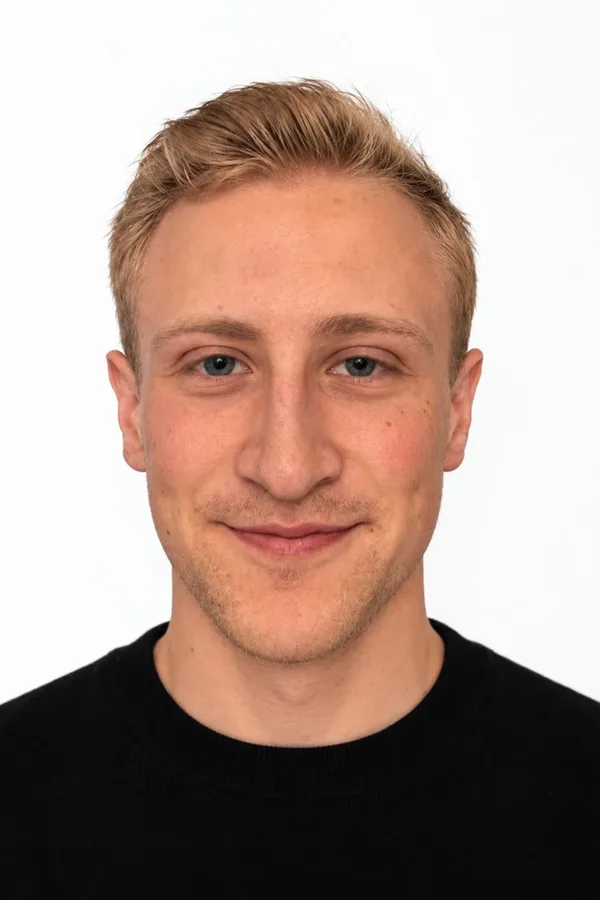
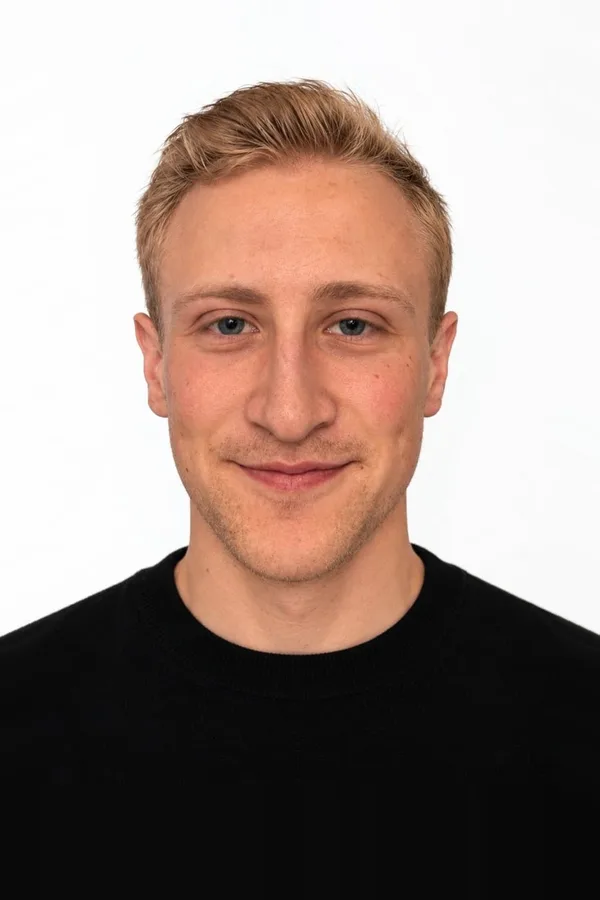
Team: Nils-Foto herausgezoomt, Stefano im Team-Format, Moritz-Text gekuerzt
- Nils: Kopf fuellte 65 % der Bildhoehe (andere 47 bis 59 %), jetzt auf 86 % skaliert, Scheitel gleiche Hoehe, Hintergrund und Schulterlinie ergaenzt; URLs mit ?v=2
- Stefano: Overlay-Karte durch Foto und Info-Kachel mit Rolle, Text und fuenf Hashtags ersetzt, nicht mehr benutztes CSS entfernt
- Moritz: Hochschule Fresenius und Masterstudium raus, Podcast bleibt, Schlusssatz neu

Changed region(s): [[0.0, 0.0933, 1.0, 0.84]]

diff --git a/index.html b/index.html
@@ -363,7 +363,7 @@
           </div>
           <div class="team-pair">
             <a class="team-tile team-tile--photo" href="https://www.linkedin.com/in/krueger-nils" target="_blank" rel="noopener" aria-label="Nils Krüger auf LinkedIn — öffnet in neuem Tab">
-              <picture><source type="image/webp" srcset="assets/img/team-nils-320.webp 320w, assets/img/team-nils-600.webp 600w, assets/img/team-nils-935.webp 935w" sizes="380px"><img src="assets/img/team-nils.jpg" alt="Porträt Nils Krüger" loading="lazy" decoding="async" width="600" height="900"></picture>
+              <picture><source type="image/webp" srcset="assets/img/team-nils-320.webp?v=2 320w, assets/img/team-nils-600.webp?v=2 600w, assets/img/team-nils-935.webp?v=2 935w" sizes="380px"><img src="assets/img/team-nils.jpg?v=2" alt="Porträt Nils Krüger" loading="lazy" decoding="async" width="600" height="900"></picture>
             </a>
             <div class="team-tile team-tile--info">
               <h3>Nils Krüger</h3>
@@ -382,20 +382,26 @@
             <div class="team-tile team-tile--info">
               <h3>Moritz Wagner</h3>
               <p class="team-tile__role">Partner für psychologisch fundierte Trainingsgestaltung</p>
-              <p>Ich konzipiere Trainings, die psychologisch fundiert sind und genau zur Zielgruppe passen. Dafür recherchiere ich Inhalte gründlich und übersetze Erkenntnisse aus der Arbeits- und Organisationspsychologie und dem Marketing in Formate, die im Alltag funktionieren. Meine Erfahrung stammt aus der studentischen Unternehmensberatung der Hochschule Fresenius und aus dem Appreciator Podcast zur Wirtschaftspsychologie, den ich vor über drei Jahren gegründet habe. Im Masterstudium der Wirtschaftspsychologie vertiefe ich die Theorie und bringe sie direkt in unsere Projekte ein.</p>
+              <p>Ich konzipiere Trainings, die psychologisch fundiert sind und genau zur Zielgruppe passen. Dafür recherchiere ich Inhalte gründlich und übersetze Erkenntnisse aus der Arbeits- und Organisationspsychologie und dem Marketing in Formate, die im Alltag funktionieren. Meine Erfahrung stammt auch aus dem Appreciator Podcast zur Wirtschaftspsychologie, den ich vor über drei Jahren gegründet habe. Bei Yorck verbinde ich Theorie und Praxis und bringe beides direkt in die Projekte ein.</p>
               <div class="team-hashtags">
                 <span>#WIRTSCHAFTSPSYCHOLOGIE</span><span>#TRAININGSGESTALTEN</span><span>#TEAMARBEITSTÄRKEN</span><span>#RESEARCHMITTIEFE</span><span>#WISSENTEILEN</span>
               </div>
               <a class="linkedin-link" href="https://www.linkedin.com/in/moritz-wagner-995a2b259/" target="_blank" rel="noopener" aria-label="Moritz Wagner auf LinkedIn — öffnet in neuem Tab" style="margin-top:6px"><svg viewBox="0 0 24 24"><path d="M20.5 2h-17A1.5 1.5 0 002 3.5v17A1.5 1.5 0 003.5 22h17a1.5 1.5 0 001.5-1.5v-17A1.5 1.5 0 0020.5 2zM8 19H5v-9h3zM6.5 8.25A1.75 1.75 0 118.3 6.5a1.78 1.78 0 01-1.8 1.75zM19 19h-3v-4.74c0-1.42-.6-2.26-1.76-2.26A1.9 1.9 0 0012.3 13.9a2.4 2.4 0 00-.12.9V19h-3s.05-8.14 0-9h3v1.3a3 3 0 012.71-1.5c2 0 3.11 1.3 3.11 4.1z"/></svg></a>
             </div>
           </div>
-          <div class="team-tile team-tile--card">
-            <a class="team-tile__photo-link" href="https://www.linkedin.com/in/labatestefano/" target="_blank" rel="noopener" aria-label="Stefano Labate auf LinkedIn — öffnet in neuem Tab"><picture><source type="image/webp" srcset="assets/img/team-stefano-320.webp 320w, assets/img/team-stefano-600.webp 600w" sizes="380px"><img src="assets/img/team-stefano.jpg" alt="Porträt Stefano Labate" loading="lazy" decoding="async" width="600" height="900"></picture></a>
-            <div class="team-tile__overlay">
-              <h3 class="team-tile__name">Stefano Labate</h3>
+          <div class="team-pair">
+            <a class="team-tile team-tile--photo" href="https://www.linkedin.com/in/labatestefano/" target="_blank" rel="noopener" aria-label="Stefano Labate auf LinkedIn — öffnet in neuem Tab">
+              <picture><source type="image/webp" srcset="assets/img/team-stefano-320.webp 320w, assets/img/team-stefano-600.webp 600w" sizes="380px"><img src="assets/img/team-stefano.jpg" alt="Porträt Stefano Labate" loading="lazy" decoding="async" width="600" height="900"></picture>
+            </a>
+            <div class="team-tile team-tile--info">
+              <h3>Stefano Labate</h3>
               <p class="team-tile__role">Experte &amp; Partner für Design und Produktmanagement</p>
+              <p>Ich mache Ideen sichtbar. Zwischen einer guten Idee und einem Produkt, das Menschen gerne nutzen, liegt oft eine Lücke. Genau dort arbeite ich am liebsten. Mit meinem Hintergrund in Art Direction, Markenstrategie, Go-to-Market und digitalem Produktmanagement verbinde ich Nutzerperspektive, Gestaltung und Geschäftsziele. Ich höre zu, frage nach und visualisiere, bis aus vielen Meinungen ein gemeinsames Bild wird, mit dem ein Team wirklich arbeiten kann.</p>
+              <div class="team-hashtags">
+                <span>#IDEENSICHTBARMACHEN</span><span>#DESIGNTRIFFTPRODUKT</span><span>#VONDERIDEEZURWIRKUNG</span><span>#KREATIVMITSTRUKTUR</span><span>#NUTZERVERSTEHEN</span>
+              </div>
+              <a class="linkedin-link" href="https://www.linkedin.com/in/labatestefano/" target="_blank" rel="noopener" aria-label="Stefano Labate auf LinkedIn — öffnet in neuem Tab" style="margin-top:6px"><svg viewBox="0 0 24 24"><path d="M20.5 2h-17A1.5 1.5 0 002 3.5v17A1.5 1.5 0 003.5 22h17a1.5 1.5 0 001.5-1.5v-17A1.5 1.5 0 0020.5 2zM8 19H5v-9h3zM6.5 8.25A1.75 1.75 0 118.3 6.5a1.78 1.78 0 01-1.8 1.75zM19 19h-3v-4.74c0-1.42-.6-2.26-1.76-2.26A1.9 1.9 0 0012.3 13.9a2.4 2.4 0 00-.12.9V19h-3s.05-8.14 0-9h3v1.3a3 3 0 012.71-1.5c2 0 3.11 1.3 3.11 4.1z"/></svg></a>
             </div>
-            <a class="linkedin-link" href="https://www.linkedin.com/in/labatestefano/" target="_blank" rel="noopener" aria-label="Stefano Labate auf LinkedIn — öffnet in neuem Tab"><svg viewBox="0 0 24 24"><path d="M20.5 2h-17A1.5 1.5 0 002 3.5v17A1.5 1.5 0 003.5 22h17a1.5 1.5 0 001.5-1.5v-17A1.5 1.5 0 0020.5 2zM8 19H5v-9h3zM6.5 8.25A1.75 1.75 0 118.3 6.5a1.78 1.78 0 01-1.8 1.75zM19 19h-3v-4.74c0-1.42-.6-2.26-1.76-2.26A1.9 1.9 0 0012.3 13.9a2.4 2.4 0 00-.12.9V19h-3s.05-8.14 0-9h3v1.3a3 3 0 012.71-1.5c2 0 3.11 1.3 3.11 4.1z"/></svg></a>
           </div>
         </div>
       </div>

diff --git a/assets/css/styles.css b/assets/css/styles.css
@@ -365,9 +365,6 @@ body.nav-open .site-header { backdrop-filter: none; -webkit-backdrop-filter: non
 .linkedin-link svg { width: 18px; height: 18px; fill: currentColor; display: block; }
 .linkedin-link:hover { background: var(--cyan); }
 .team-tile--photo .linkedin-link { position: absolute; right: 14px; bottom: 14px; background: var(--cyan); box-shadow: 0 4px 14px rgba(0,0,0,.35); }
-.team-tile--card .linkedin-link { position: absolute; right: 14px; bottom: 14px; background: #fff; color: var(--ink); box-shadow: 0 4px 14px rgba(0,0,0,.35); }
-.team-tile--card .linkedin-link:hover { background: var(--cyan); }
-.team-tile--card { position: relative; display: block; overflow: hidden; }
 /* Mobil: Profile mit Text gleich aufgebaut und gleich groß. Foto im ungeschnittenen 2:3-Format links,
    rechts Name oben, Rolle darunter, LinkedIn-Icon bündig mit der Unterkante des Fotos, darunter Text und Hashtags.
    Stefano bleibt wie am Desktop: Foto mit Name, Titel und Icon, gleich hoch wie die anderen. Karten 80vw breit (nächste schaut heraus). */
@@ -383,20 +380,7 @@ body.nav-open .site-header { backdrop-filter: none; -webkit-backdrop-filter: non
   .team-pair .linkedin-link { grid-column: 2; grid-row: 3; position: static; align-self: end; justify-self: start; margin: 0 !important; background: var(--ink); color: #fff; box-shadow: none; }
   .team-pair .team-tile--info p:not(.team-tile__role) { grid-column: 1 / -1; grid-row: 4; margin-top: 10px; font-size: .8rem; line-height: 1.4; }
   .team-pair .team-hashtags { grid-column: 1 / -1; grid-row: 5; margin-top: 8px; font-size: .68rem; gap: 4px 10px; }
-  .team-tile--card { width: min(80vw, 330px); height: auto; }
-  .team-tile--card picture, .team-tile--card .team-tile__photo-link { position: absolute; inset: 0; display: block; }
-  .team-tile--card .team-tile__overlay { padding-right: 72px; }
-  .team-tile--card .team-tile__role { hyphens: manual; overflow-wrap: normal; }
 }
-.team-tile--card picture { display: block; width: 100%; height: 100%; }
-.team-tile--card img { width: 100%; height: 100%; object-fit: cover; display: block; transition: transform .6s var(--ease); }
-.team-tile--card:hover img { transform: scale(1.045); }
-.team-tile__photo-link { display: block; width: 100%; height: 100%; }
-.team-tile--card .team-tile__overlay { pointer-events: none; }
-.team-tile__overlay { position: absolute; left: 0; right: 0; bottom: 0; padding: clamp(20px, 3vw, 28px); background: linear-gradient(180deg, rgba(0,0,0,0) 0%, rgba(0,0,0,.78) 78%); }
-.team-tile__name { font-family: var(--font-display); font-weight: 800; text-transform: uppercase; font-size: 1.15rem; color: var(--cyan); margin: 0; overflow-wrap: anywhere; hyphens: auto; }
-.team-tile__overlay .team-tile__role { margin-top: 4px; }
-.section--skyphoto .team-tile__overlay .team-tile__name, .section--skyphoto .team-tile__overlay .team-tile__role { color: var(--cyan); text-shadow: 0 1px 6px rgba(0,0,0,.55); }
 /* ---------- Contact ---------- */
 .contact { position: relative; background: #18242d; color: #fff; isolation: isolate; overflow: hidden; }
 .contact__bg { position: absolute; inset: 0; z-index: -1; display: block; }
@@ -468,7 +452,7 @@ body.nav-open .site-header { backdrop-filter: none; -webkit-backdrop-filter: non
   .js .hero__logo, .js .hero .display, .js .hero__sub { animation: none; }
   .js .hero__inner, .js .hero__scroll { opacity: 1; transform: none; }
   .js [data-parallax-img] img { transform: none; }
-  .team-tile--photo img, .team-tile--card img { transition: none; transform: none; }
+  .team-tile--photo img { transition: none; transform: none; }
   .btn, .tile, .hero__scroll span { transition: none; animation: none; }
   /* Laufband einfrieren ist nicht genug: ohne Scroll-Mechanismus wären Inhalte jenseits der
      ersten Viewport-Breite für Reduced-Motion-Nutzer:innen unerreichbar (z. B. Komplizen-Logos). */
@@ -623,7 +607,7 @@ body.nav-open .site-header { backdrop-filter: none; -webkit-backdrop-filter: non
 
 /* ---------- Typografie und Mobile-Feinschliff ---------- */
 /* Überschriften werden nie mitten im Wort getrennt (Safari trennte "Zusammenar-beit", "Aufstel-len"); zu lange Wörter brechen nur als letzter Ausweg. */
-h1, h2, h3, .display, .tile h3, .team-tile__name, .article-masthead-meta h1, .article-hero h1, .contact__headline, .prose blockquote, .prose blockquote p { overflow-wrap: break-word; hyphens: manual; }
+h1, h2, h3, .display, .tile h3, .article-masthead-meta h1, .article-hero h1, .contact__headline, .prose blockquote, .prose blockquote p { overflow-wrap: break-word; hyphens: manual; }
 .section--skyphoto .tile__body { padding-inline: 0; }
 .all-link { color: #fff; font-weight: 700; text-shadow: 0 1px 8px rgba(0,0,0,.45); }
 .all-link:hover { color: var(--cyan); }
